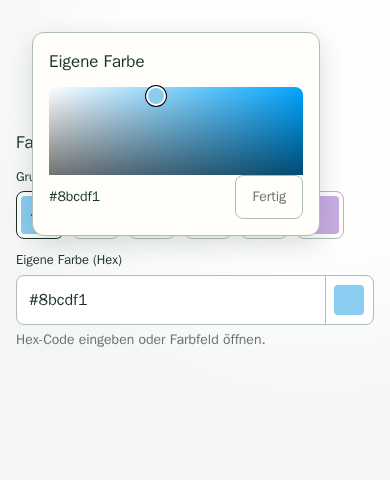
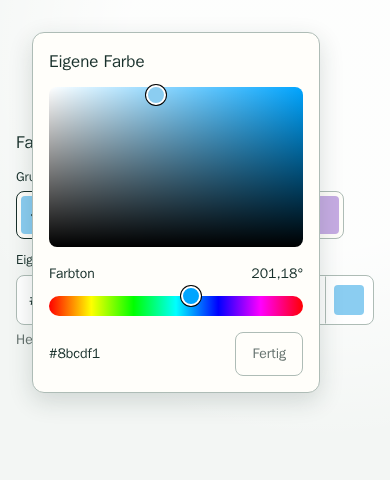
Fit entire color picker in mobile viewport without internal scrolling

diff --git a/src/shared/ui/OptionList/useAnchoredPopup.ts b/src/shared/ui/OptionList/useAnchoredPopup.ts
@@ -6,6 +6,7 @@ export function useAnchoredPopup(
   open: boolean,
   trigger: RefObject<HTMLElement | null>,
   popup: RefObject<HTMLDivElement | null>,
+  constrainHeight = true,
 ) {
   useLayoutEffect(() => {
     const element = popup.current;
@@ -19,6 +20,21 @@ export function useAnchoredPopup(
     const maxHeight = parseFloat(style.maxHeight);
     const position = () => {
       const rect = anchor.getBoundingClientRect();
+      if (!constrainHeight) {
+        element.style.width = Math.min(rect.width, window.innerWidth - gutter * 2) + "px";
+        const below = rect.bottom + gap;
+        const above = rect.top - gap - element.offsetHeight;
+        const preferred = window.innerHeight - below >= element.offsetHeight ? below : above;
+        element.style.left =
+          Math.max(gutter, Math.min(rect.left, window.innerWidth - element.offsetWidth - gutter)) +
+          "px";
+        element.style.top =
+          Math.max(
+            gutter,
+            Math.min(preferred, window.innerHeight - element.offsetHeight - gutter),
+          ) + "px";
+        return;
+      }
       const below = window.innerHeight - rect.bottom - gap - gutter;
       const above = rect.top - gap - gutter;
       const upwards = below < Math.min(element.scrollHeight, maxHeight) && above > below;
@@ -49,5 +65,5 @@ export function useAnchoredPopup(
       window.removeEventListener("scroll", viewportChanged, true);
       if (element.matches(":popover-open")) element.hidePopover();
     };
-  }, [open, trigger, popup]);
+  }, [open, trigger, popup, constrainHeight]);
 }

diff --git a/tests/storybook.spec.ts b/tests/storybook.spec.ts
@@ -58,7 +58,7 @@ test("color picker presets, hex input, spectrum and disabled state stay synchron
   await expect(green).toBeDisabled();
 });
 
-test("color picker confirmation stays visible on short mobile viewports", async ({ page }) => {
+test("the entire color picker fits without internal scrolling on mobile", async ({ page }) => {
   await page.setViewportSize({ width: 390, height: 480 });
   await page.goto("/iframe.html?id=components-colorpicker--default&viewMode=story");
   const trigger = page.getByRole("button", { name: "Farbe auswählen" });
@@ -66,10 +66,14 @@ test("color picker confirmation stays visible on short mobile viewports", async 
   const popup = page.getByRole("dialog", { name: "Eigene Farbe" });
   await expect(popup.locator(".color-spectrum")).toBeVisible();
   const confirm = popup.getByRole("button", { name: "Fertig" });
+  await expect(popup.getByRole("slider", { name: "Farbton" })).toBeVisible();
+  await expect(popup).toHaveCSS("overflow-y", "visible");
   const popupBox = await popup.boundingBox();
   const buttonBox = await confirm.boundingBox();
   expect(popupBox).not.toBeNull();
   expect(buttonBox).not.toBeNull();
+  expect(popupBox!.y).toBeGreaterThanOrEqual(0);
+  expect(popupBox!.y + popupBox!.height).toBeLessThanOrEqual(480);
   expect(buttonBox!.y).toBeGreaterThanOrEqual(popupBox!.y);
   expect(buttonBox!.y + buttonBox!.height).toBeLessThanOrEqual(popupBox!.y + popupBox!.height);
   expect(buttonBox!.y + buttonBox!.height).toBeLessThanOrEqual(480);

diff --git a/src/shared/ui/ColorPicker/ColorPicker.tsx b/src/shared/ui/ColorPicker/ColorPicker.tsx
@@ -33,7 +33,7 @@ export function ColorPicker({ value, onValueChange, onBlur, disabled, error }: C
   const anchor = useRef<HTMLDivElement>(null);
   const trigger = useRef<HTMLButtonElement>(null);
   const popup = useRef<HTMLDivElement>(null);
-  useAnchoredPopup(open && !disabled, anchor, popup);
+  useAnchoredPopup(open && !disabled, anchor, popup, false);
   useLayoutEffect(() => {
     if (open && !disabled) popup.current?.focus();
   }, [open, disabled]);
@@ -122,12 +122,10 @@ export function ColorPicker({ value, onValueChange, onBlur, disabled, error }: C
             }
           }}
         >
-          <div className="color-popover-content">
-            <h3 id={id + "-popup-title"}>Eigene Farbe</h3>
-            <Suspense fallback={<p role="status">Farbauswahl wird geladen…</p>}>
-              <ColorSpectrum value={selected ?? DEFAULT_LIST_COLOR} onValueChange={onValueChange} />
-            </Suspense>
-          </div>
+          <h3 id={id + "-popup-title"}>Eigene Farbe</h3>
+          <Suspense fallback={<p role="status">Farbauswahl wird geladen…</p>}>
+            <ColorSpectrum value={selected ?? DEFAULT_LIST_COLOR} onValueChange={onValueChange} />
+          </Suspense>
           <div className="color-popover-footer">
             <span>{selected ?? DEFAULT_LIST_COLOR}</span>
             <Button variant="secondary" onClick={close}>

diff --git a/review/pho-6/index.html b/review/pho-6/index.html
@@ -47,8 +47,8 @@
       <h1>PHO-6 · Color picker confirmation</h1>
       <p>
         Playwright screenshots at 390 × 480 CSS pixels, Chromium mobile touch viewport. Before: the
-        confirmation button is inside the clipped scroll region. After: the button stays in the
-        fixed footer while the picker content scrolls independently.
+        confirmation button is inside the clipped scroll region. After: the entire popup fits in the
+        viewport without internal scrolling.
       </p>
       <div class="gallery">
         <figure>
@@ -60,7 +60,10 @@
         </figure>
         <figure>
           <figcaption>After</figcaption>
-          <img src="after.png" alt="Color picker with confirmation button visible in its footer" />
+          <img
+            src="after.png"
+            alt="Entire color picker and confirmation button visible without scrolling"
+          />
         </figure>
       </div>
     </main>

diff --git a/src/shared/ui/ColorPicker/ColorPicker.css b/src/shared/ui/ColorPicker/ColorPicker.css
@@ -61,13 +61,10 @@
 .color-popover {
   position: fixed;
   inset: auto;
-  display: flex;
-  flex-direction: column;
   margin: 0;
   padding: var(--space-4);
   max-width: 18rem;
-  max-height: 28rem;
-  overflow: hidden;
+  overflow: visible;
   border: var(--border-width) solid var(--color-line-strong);
   border-radius: var(--radius-md);
   background: var(--color-surface);
@@ -75,11 +72,6 @@
   box-shadow: var(--shadow-popover);
   font-family: var(--font-body);
   font-size: var(--font-small);
-}
-
-.color-popover-content {
-  min-height: 0;
-  overflow: auto;
 }
 
 .color-popover h3 {
@@ -121,7 +113,6 @@
 }
 
 .color-popover-footer {
-  flex: none;
   display: flex;
   align-items: center;
   justify-content: space-between;
